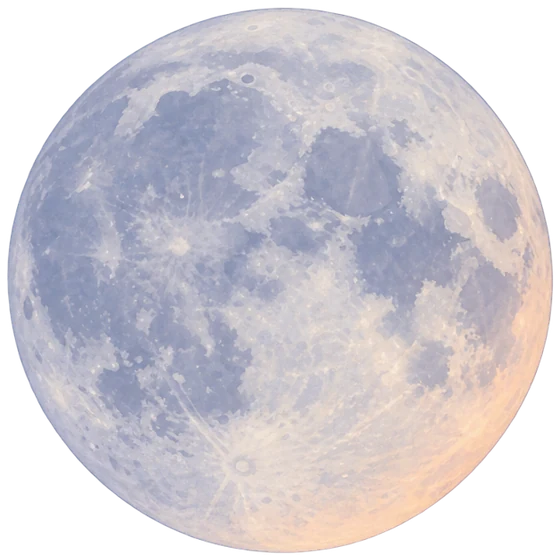
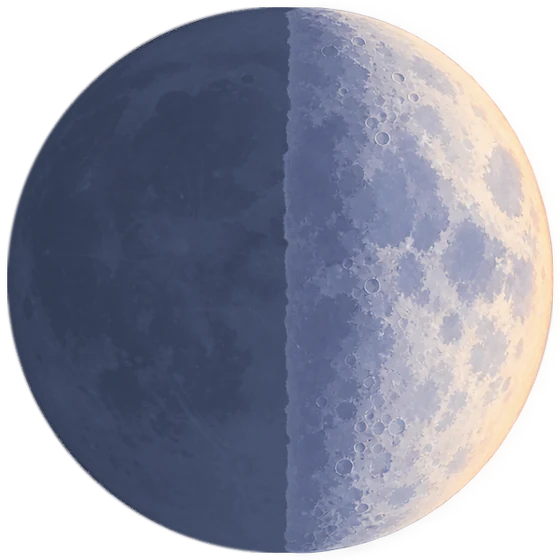
Sky ocean: half moon with its dark side showing
Back to the original painted half moon, now with the dark half filled in as
faint earthshine (dim blue-grey disc with crater texture from the full-moon
render) so it no longer looks cut in half. The bright half is unchanged pixel
for pixel; tilt restored. Built by scripts/sky/moon_darkside.py.

diff --git a/components/ocean/SkyLayers.tsx b/components/ocean/SkyLayers.tsx
@@ -75,7 +75,7 @@ export default function SkyLayers({ className = "" }: { className?: string }) {
           It sits on the wrapper, which has its own stacking context, so it blends with the sky. */}
       <div ref={moonRef} className="absolute left-1/2 top-[16%] -translate-x-1/2 opacity-80 mix-blend-screen will-change-transform">
         <div
-          className="h-[min(34vmin,300px)] aspect-square"
+          className="h-[min(34vmin,300px)] aspect-square rotate-[16deg]"
           style={{ background: "url(/ocean/moon.webp) center / contain no-repeat" }}
         />
       </div>

diff --git a/scripts/sky/moon_darkside.py b/scripts/sky/moon_darkside.py
@@ -1,0 +1,40 @@
+# Builds public/ocean/moon.webp: the original painted half moon (art/ocean/sky/moon.png) with a faint
+# earthshine dark side filled in from the full moon's crater texture (art/ocean/sky/moon-full.png).
+# usage (from the repo root): python scripts/sky/moon_darkside.py <dir for a preview jpg>
+import sys
+import numpy as np
+from PIL import Image, ImageDraw, ImageFilter
+half = Image.open('art/ocean/sky/moon.png').convert('RGBA')
+full = Image.open('art/ocean/sky/moon-full.png').convert('RGBA')
+N = half.size[0]
+cx, cy, r = 408.5, 515.5, 300.5
+# Crater texture from the full moon, scaled onto the half moon's disc.
+fx0, fy0, fx1, fy1 = 204, 200, 815, 823
+tex = full.crop((fx0, fy0, fx1, fy1)).resize((round(2 * r), round(2 * r)), Image.LANCZOS)
+lum = np.asarray(tex.convert('L'), dtype=np.float32) / 255.0
+lum = (lum - lum.mean()) / (lum.std() + 1e-6)  # contrast only: maria vs highlands
+# Dim cool earthshine: slightly brighter toward the lit edge, darker on the far limb.
+h, w = lum.shape
+yy, xx = np.mgrid[0:h, 0:w]
+dx = (xx - r) / r
+glow = np.clip(0.5 + 0.5 * dx, 0, 1)  # 0 far limb (left) .. 1 terminator
+base = np.array([62, 72, 100], np.float32)
+col = base[None, None, :] * (0.82 + 0.28 * glow[..., None]) + lum[..., None] * np.array([15, 17, 22], np.float32)
+col = np.clip(col, 0, 255).astype(np.uint8)
+# Antialiased disc mask (4x supersampled), with a soft limb.
+S = 4
+m = Image.new('L', (w * S, h * S), 0)
+ImageDraw.Draw(m).ellipse((0, 0, w * S - 1, h * S - 1), fill=255)
+m = m.resize((w, h), Image.LANCZOS).filter(ImageFilter.GaussianBlur(1.2))
+dark = Image.fromarray(col, 'RGB').convert('RGBA')
+dark.putalpha(m)
+out = Image.new('RGBA', (N, N), (0, 0, 0, 0))
+out.alpha_composite(dark, (round(cx - r), round(cy - r)))
+out.alpha_composite(half)  # the original bright half, untouched, on top
+out.save('art/ocean/sky/moon-earthshine.png')
+x0, y0 = round(cx - r) - 8, round(cy - r) - 8
+crop = out.crop((x0, y0, x0 + round(2 * r) + 16, y0 + round(2 * r) + 16)).resize((560, 560), Image.LANCZOS)
+crop.save('public/ocean/moon.webp', quality=88, method=6)
+bg = Image.new('RGBA', crop.size, (108, 140, 184, 255)); bg.alpha_composite(crop)
+bg.convert('RGB').save(sys.argv[1] + '/moon-earthshine-prev.jpg')
+print('ok', crop.size)
